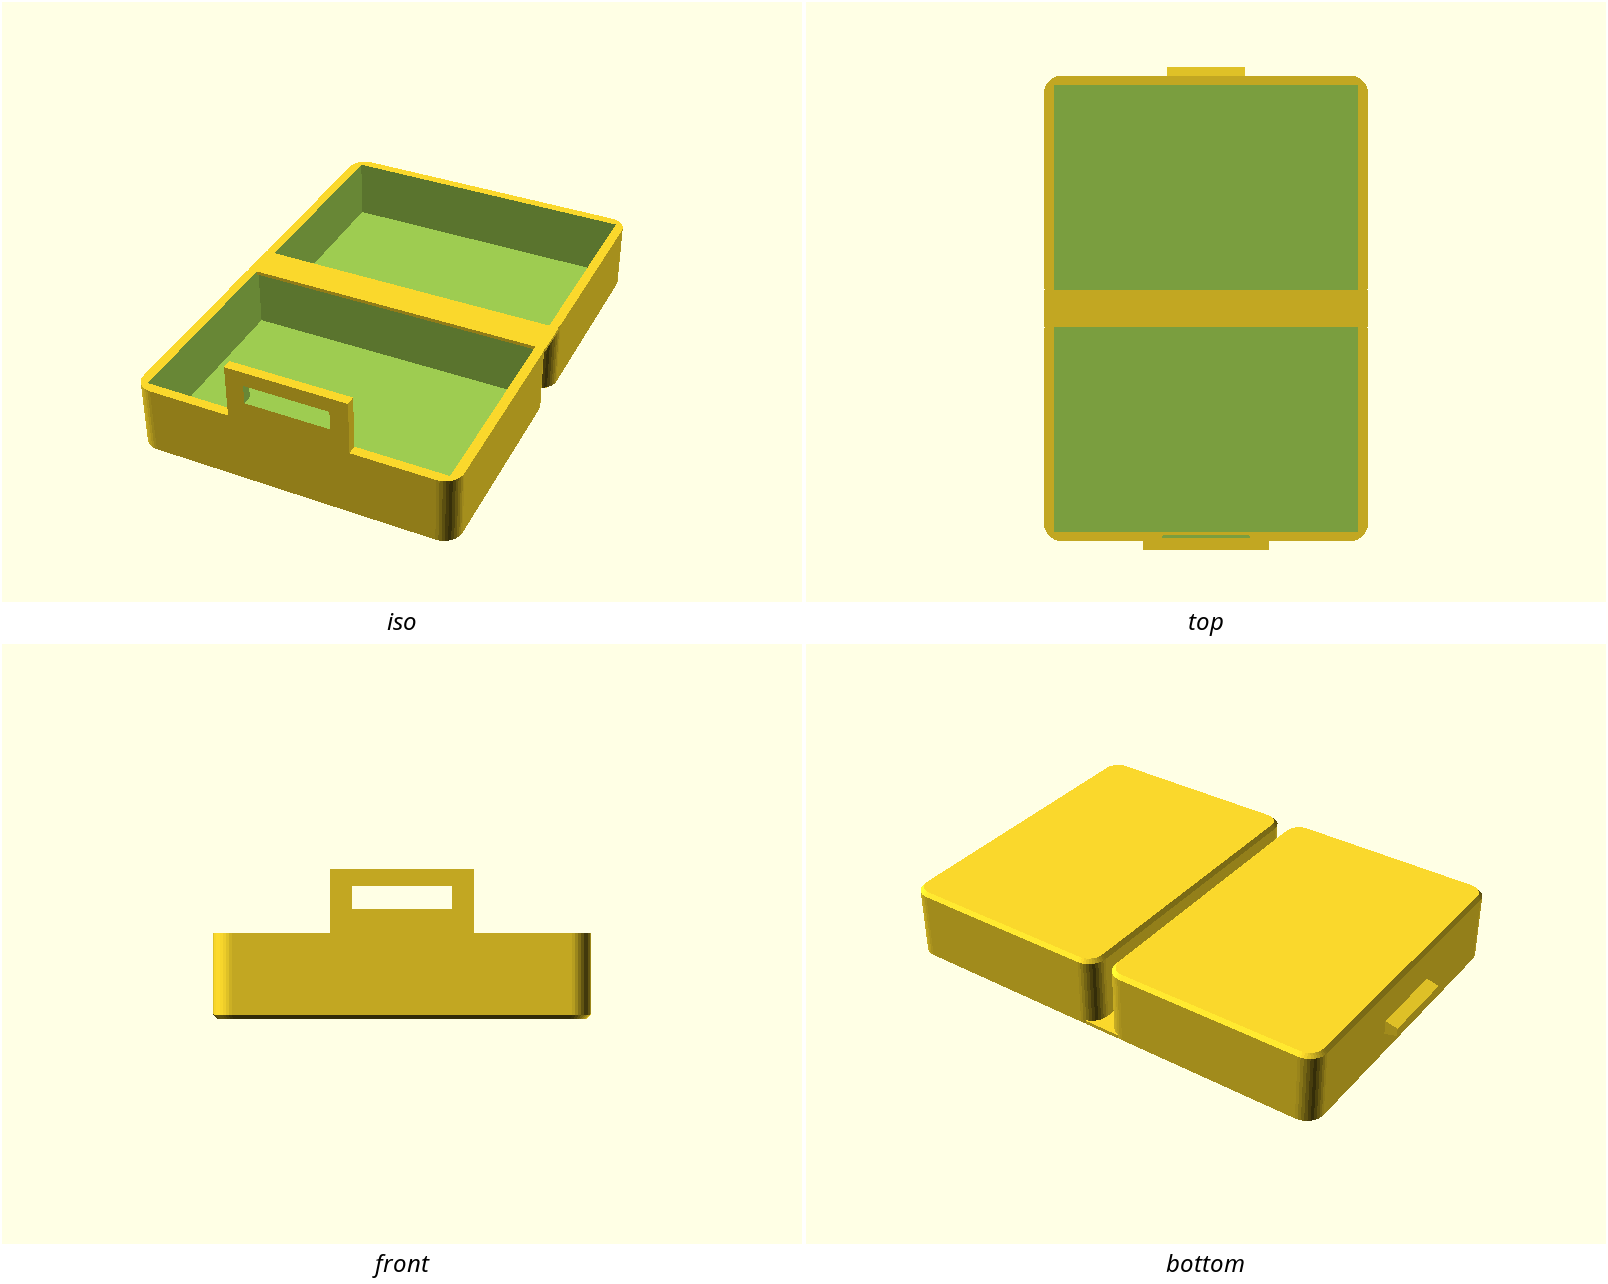
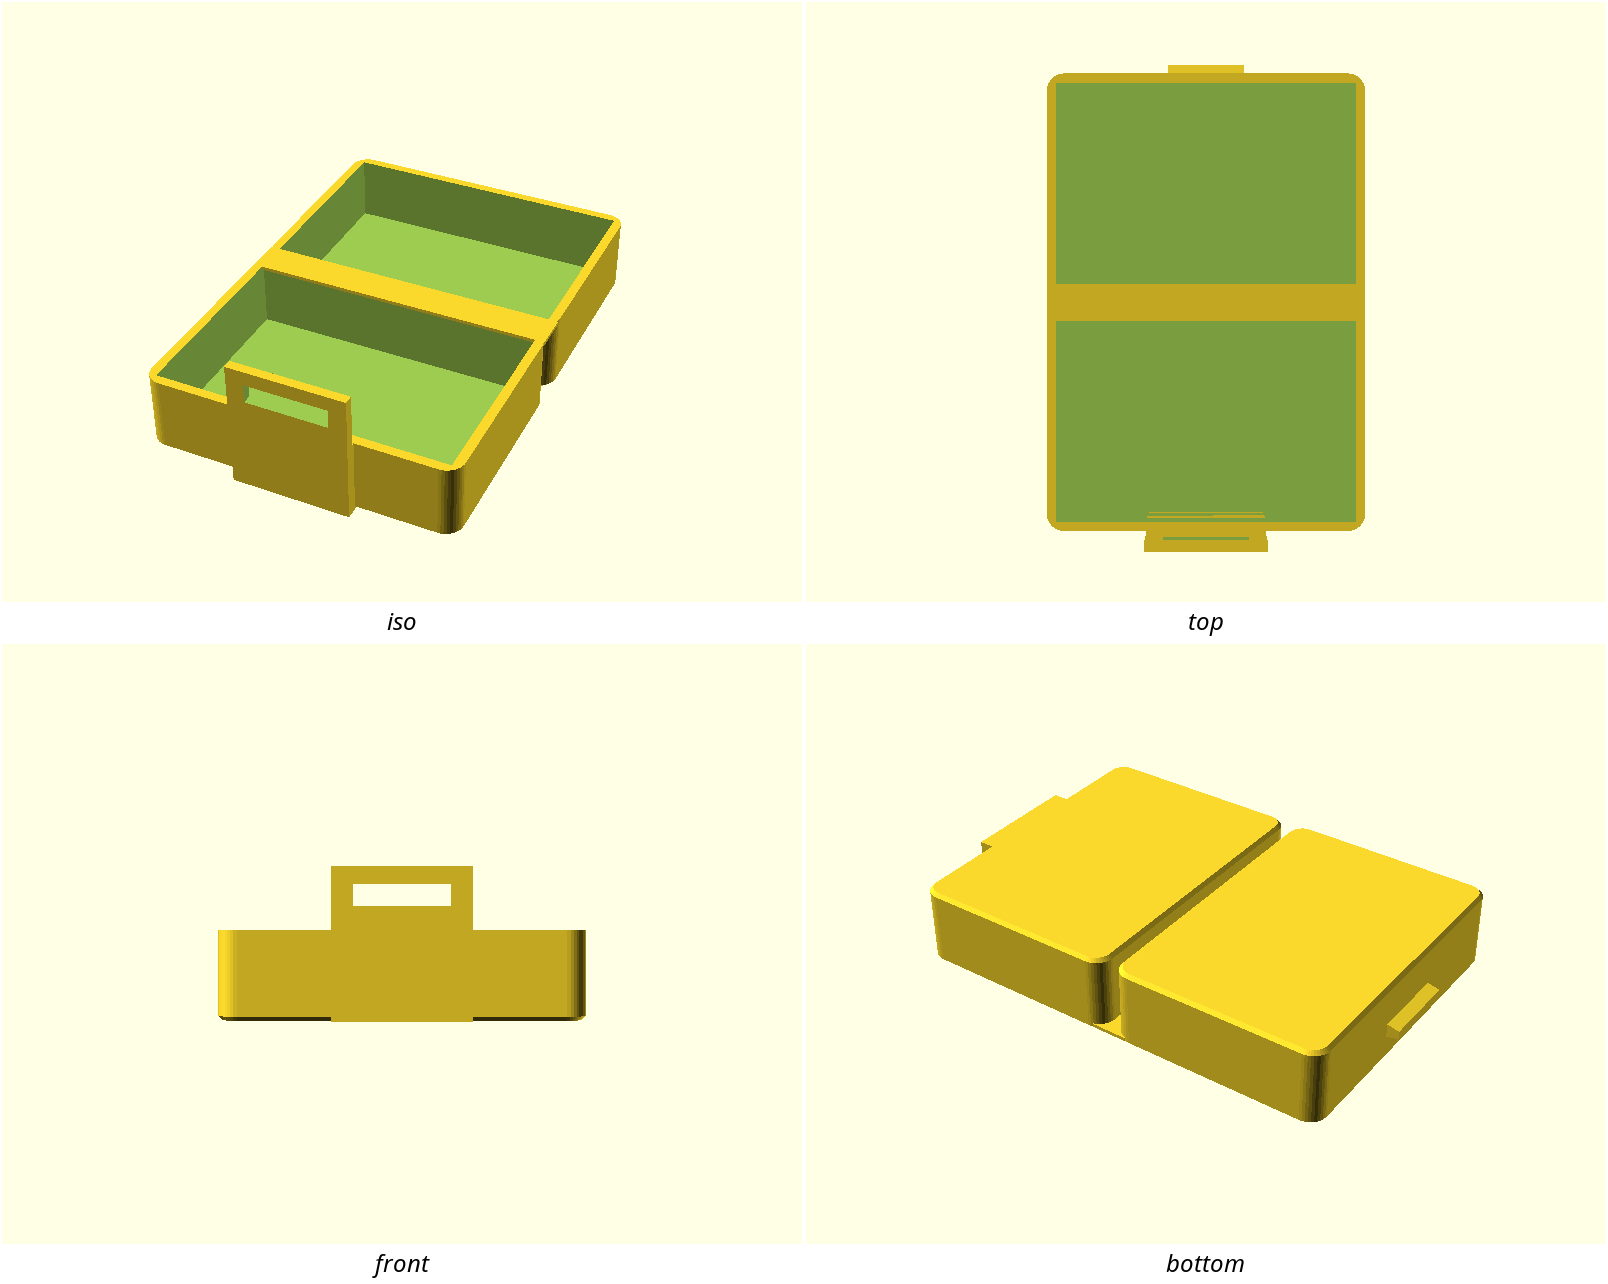
snap-clamshell-box: coach round 1 — cameras.conf owns the closed pose, thread clr, gate latch_clr, slicer-honest docs
T1: previews/cameras.conf now owns closed-latched.png (new standoff-readable
three-quarter framing — the old head-on elevation could not show the standoff)
and the 4-view contact sheet, both regenerated from current geometry; CAMERAS.md
records the freeze. Closes the #69-style staleness live on this page (#265).

T2: placed_base(clr) now threads clr through base_latch to the strip — the
whole-base path can no longer render at latch_clr while its caller believes it
passed 0. closed-clash-ctrl re-measured after the change: 32 facets, 216.00 mm3
(unchanged, as required).

T3: Print settings states the hinge is exactly 3 layers at 0.2 mm and coarser
layer heights crack it.

T4: NOTES records the measured cam event (28.09 mm3 peak at 176.5 deg, ~1.5 mm
strip deflection per cycle, 0.47 mm free play, hook 0.1 mm proud) and the
documented latch_clr minimum is now asserted in the model (>= wall_t + 0.2).

Drik round: 'two compartments' corrected to one deep compartment, earbud fit
documented as lying-on-their-sides, latch fatigue note replaces 'few cycles'
(same ~1000 cycles/year as the hinge), README parameter table gains latch_t /
latch_h / hinge_gap rows, stale slice TODO checked off, coupon promoted to top
of the queue.

Claude-Session: https://claude.ai/code/session_01UKUHqbvBFKFTLcbdznQ1KA

diff --git a/designs/snap-clamshell-box/NOTES.md b/designs/snap-clamshell-box/NOTES.md
@@ -46,6 +46,22 @@ re-measured above). Locked in by `ci.fitchecks`: `closed-clash` must render empt
 `closed-clash-ctrl` (the same intersection with `latch_clr = 0`) must reproduce
 the 216 mm³ interference — the negative control proving the check can fail.
 
+## The snap's cam event (measured, PR #268 review round)
+
+The fitchecks prove the end poses; the *action* lives in the last ~5° of
+closing. Sweeping strip ∩ lid interference by fold angle: 0 through 172°,
+0.62 mm³ at 173°, peaking **28.09 mm³ at 176.5°**, back to 0 by 179.5° (tab
+seated in the window). The tab cams the strip's top land outward **~1.4–1.5 mm**
+before it drops in; once latched, free play before the latch re-engages is
+0.47 mm, and `hook` protrudes only 0.1 mm past the strip's outer face — the
+retention is the window's side/bottom lands, not a positive hook. So the latch
+relies on the strip flexing ~1.5 mm outward on every close/open; if it prints
+stiff (ABS, cold chamber), the box will resist closing — reduce `latch_h` or
+thin `latch_t` before forcing it. Isotropic beam math on the top land puts the
+camming load at 100–240 N depending on material; FDM laminates are weaker and
+less stiff than that model, so treat it as an upper bound — it is exactly the
+number the latch coupon exists to settle on a printed part.
+
 ## Name note
 
 The closure is a **snap** (two stable states, open/latched, separated by the
@@ -55,8 +71,10 @@ bistable latch is a possible variant but wouldn't print as flat.
 
 ## Print
 
-Flat, no supports. Living hinge → PETG/PP (folds), not PLA (cracks). Snap latch
-material is less critical (few cycles).
+Flat, no supports. Living hinge → PETG/PP (folds), not PLA (cracks). The snap
+latch flexes on every open/close — the same 2–4 cycles/day the hinge sees
+(≈700–1500/year for a daily-use box), so it wants the same PETG/PP; PLA fatigues
+at the latch root on the identical schedule (Drik review, PR #268).
 
 ## Status
 
@@ -64,6 +82,11 @@ material is less critical (few cycles).
   seats in the window.
 - Closed-pose latch clash fixed and gated (`ci.fitchecks`, issue #230); `wall_h`
   raised to 13 so the closed interior (22.8 mm) holds an earbud.
-- TODO: `gate.sh --slice` (needs PrusaSlicer; run in CI); `previews/cameras.conf`
-  + an `animations.conf` fold animation; the deeper latch coupon sweeping the
-  tab/window interference fit remains worthwhile for tuning.
+- `gate.sh --slice` ran green (CI + the PR #268 review round) — done.
+  `previews/cameras.conf` added in PR #268 (owns `closed-latched` and the
+  contact sheet, closing the #69-style staleness of issue #265).
+- TODO (ranked by the PR #268 Drik review): the **latch coupon** sweeping the
+  tab/window fit — promoted to top of the queue (the latch takes ~1000
+  cycles/year and the 28 mm³ cam event is its measured input); then an
+  `animations.conf` fold animation (it would have *shown* the 216 mm³ jam this
+  design had to derive).

diff --git a/designs/snap-clamshell-box/README.md b/designs/snap-clamshell-box/README.md
@@ -20,16 +20,20 @@ Closed and latched (preview pose):
 
 ## What you get
 
-- `snap-clamshell-box` — one flat print, ≈ 53 × 81 × 22 mm as printed (both trays
-  open and flat, the latch strip standing proud of the rim); folds to a
-  ≈ 53 × 43 × 26 mm closed box with two compartments. The closed interior clears
-  ≈ 22.8 mm — enough to hold a pair of earbuds.
+- `snap-clamshell-box` — one flat print, ≈ 53 × 80.5 × 22 mm as printed (both
+  trays open and flat, the latch strip standing proud of the rim); folds to a
+  ≈ 53 × 43 × 26 mm closed box — the two tray-halves close face-to-face into one
+  deep compartment. The closed interior clears ≈ 22.8 mm — enough to hold a pair
+  of earbuds lying on their sides (21.8 mm is a bud's narrowest dimension; stood
+  upright they do not fit).
 
 ## Print settings
 
 - **Material:** PETG / PP for the living hinge (it folds many times); PLA will
   crack at the hinge
-- **Layer height:** 0.2 mm
+- **Layer height:** 0.2 mm or finer — the 0.6 mm living hinge is exactly
+  3 layers at 0.2 mm; 0.24 mm and coarser drops it to 2 and it will crack at
+  the fold
 - **Infill:** 20–30 %
 - **Supports:** none needed
 - **Orientation:** **flat, both trays open** (as modelled). Fold the lid 180° over
@@ -49,7 +53,10 @@ box closes.
 | `wall_h` | 13 mm | wall height per tray (closed interior ≈ 2·(wall_h − floor_t)) |
 | `hinge_t` | 0.6 mm | living-hinge web thickness (thin = folds easily; 0.4–1.0) |
 | `hook` | 2.0 mm | latch tab protrusion (snap strength) |
-| `latch_clr` | 2.0 mm | outward standoff of the latch strip so it clears the closed lid wall (≥ `wall_t` + a print clearance) |
+| `latch_t` | 1.6 mm | latch strip (arm) thickness — drives snap stiffness; thickens outward, so the anti-clash clearance is preserved |
+| `latch_h` | 9 mm | latch strip height above the rim — drives `win_z` and the fold map (`tab_flat_z`) |
+| `hinge_gap` | 2.0 mm | spine gap between the trays that the hinge web bridges |
+| `latch_clr` | 2.0 mm | outward standoff of the latch strip so it clears the closed lid wall (≥ `wall_t` + a print clearance, asserted in the model) |
 
 All parameters are at the top of `snap-clamshell-box.scad`; override with
 `-D 'inner_w=60'`. `demo_fold` is a preview pose only — print at 0.

diff --git a/designs/snap-clamshell-box/previews/CAMERAS.md b/designs/snap-clamshell-box/previews/CAMERAS.md
@@ -1,0 +1,13 @@
+# Frozen preview cameras — snap-clamshell-box
+
+- `contact-sheet` — the standard 4-view sheet (iso / top / front / bottom-iso)
+  of the flat print pose. Owned here so `--previews` (and CI's regen) re-render
+  it whenever the geometry moves — it can never go stale again (issue #265,
+  the #69 hole).
+- `closed-latched` — the closed box (`demo_fold=180`) from a front-right
+  three-quarter, chosen so the latch fix reads at a glance: the windowed strip
+  standing `latch_clr` proud of the lid wall, the buttress step below it, and
+  the tab visible inside the window. Replaces a hand-committed straight-on
+  elevation no manifest produced (issue #265); the framing is deliberately new —
+  the old head-on view could not show the standoff, which is the feature the
+  fix added. Camera frozen 2026-08-16 (PR #268, round 1).
